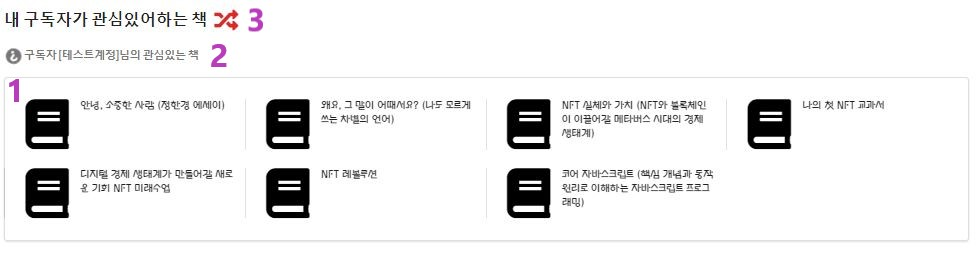
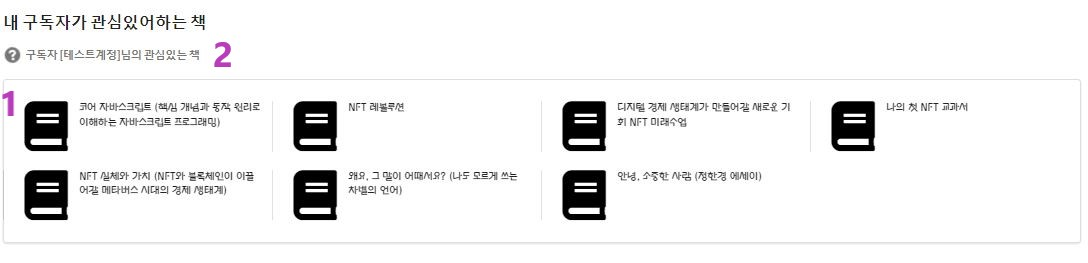
test

diff --git a/pages/explore/index.js b/pages/explore/index.js
@@ -76,6 +76,7 @@ function Explorer() {
         data.users.map(async (uid) => await getUserDoc(uid))
       );
       setSubscribers(x);
+
       setSubLens(x.length);
       if (x.length) {
         setTestData(x[0].displayName);
@@ -231,6 +232,22 @@ function Explorer() {
           style={{ marginTop: "3em", display: "flex" }}
         >
           내 구독자가 관심있어하는 책
+          {subLens >= 2 ? (
+            <Popup
+              content="버튼을 누르면 다른 구독자들을 랜덤으로 검색합니다."
+              trigger={
+                <Icon
+                  name="random"
+                  onClick={otherSubscribers}
+                  color={"red"}
+                  size="mini"
+                  style={{ cursor: "pointer", marginLeft: 5, marginTop: -2 }}
+                />
+              }
+            />
+          ) : (
+            <></>
+          )}
         </Header>
 
         <Header style={{ marginTop: 10, display: "flex" }} as="h5" color="grey">
@@ -238,10 +255,10 @@ function Explorer() {
             {subLens ? (
               <>
                 <Popup
-                  content="가장 오래된 구독자의 등록한 책을 불러옵니다."
-                  trigger={<Icon name="question circle" size="large" loading style={{marginBottom:3}}/>}
+                  content="페이지 조작 시에는, 자동으로 가장 오래된 구독자의 등록된 책을 불러옵니다."
+                  trigger={<Icon name="question circle" size="large" loading />}
                 />
-                <span>
+                <span style={{ marginLeft: "-0.2em" }}>
                   {displayName
                     ? `구독자 [${displayName}]님의 관심있는 책`
                     : "구독자 [guest]님의 관심있는 책"}{" "}
@@ -261,9 +278,9 @@ function Explorer() {
                   {subscribers[randomUser].myBooks ? (
                     subscribers[randomUser].myBooks.map(
                       (subscriberBooks) => (
-                        // (subscribers[randomUser].myBooks = [
-                        //   ...subscribers[randomUser].myBooks,
-                        // ].reverse()),
+                        (subscribers[randomUser].myBooks = [
+                          ...subscribers[randomUser].myBooks,
+                        ].reverse()),
                         (subscriberBooks = subscriberBooks.substr(24)),
                         (
                           <>
